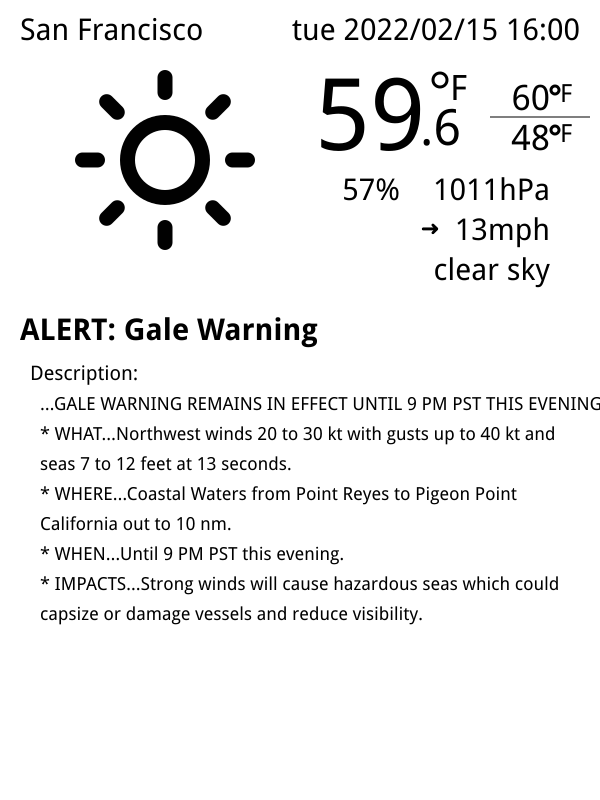
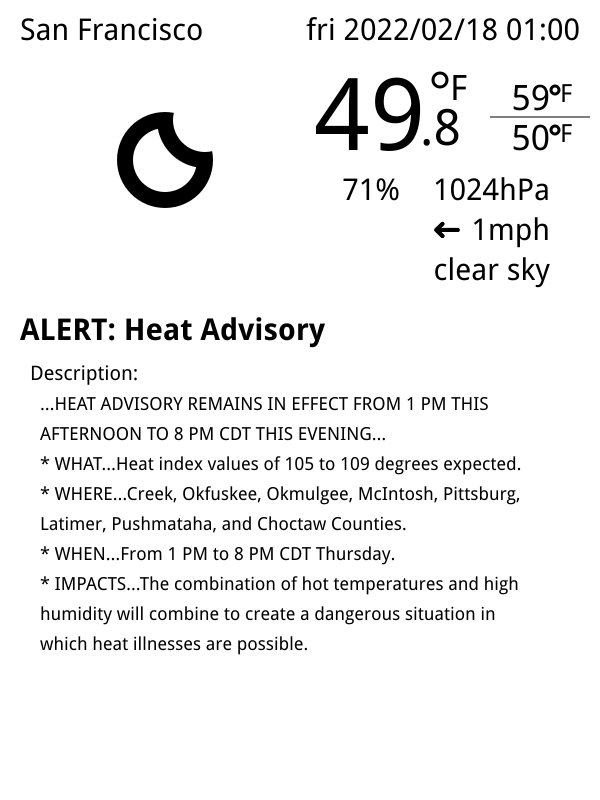
update

diff --git a/openwrt/opt/kindle-weather-station/createSVGv2.py b/openwrt/opt/kindle-weather-station/createSVGv2.py
@@ -123,20 +123,25 @@ def s_padding(x):
     elif x <= -10 : return 0
 
 
-def text_split(start, length, text):
-    a = text.split()
-    b1 = start
+def text_split(length, text, start_text="" , match=""):
+    text_list = text.split()
+    b1 = start_text
     s = list()
-    i = int(0)
     n = int(0)
-    for v in a:
+    for v in text_list:
         n += 1
         b2 = b1
         b1 += v + " "
-        if len(a) == n:
+        if len(text_list) == n:
             s += [b1 + "\n"]
+        elif re.match(r'{}'.format(match), v) and not match == '':
+            s += [b2 + "\n"]
+            b1 = v + " "
+        elif re.match(r'^\*$', v) and not match == '':
+            s += [b2 + "\n"]
+            b1 = v + " "
         elif len(b1) < length:
-            v1 = v + " "
+            continue
         elif len(b1) >= length:
             s += [b2 + "\n"]
             b1 = v + " "
@@ -186,46 +191,37 @@ def add_header(p, t_now, tz):
 def add_alerts(p, base_y, max_y):
     alerts = p.weather_alerts()
     s = str()
-    c = text_split(start="ALERT: ", length=35, text=alerts[0]['event'])
+    c = text_split(length=35, text=alerts[0]['event'], start_text="ALERT: ")
 
     for v in c:
         s1 = SVGtext2("start", "bold", "30px", "20", base_y, str(v))
         s += s1.code()
         base_y += 40
 
-    s2 = SVGtext("start", "20px", "25", base_y, "Description:")
+    s2 = SVGtext("start", "20px", "30", base_y, "Description:")
     s += s2.code()
     base_y += 30
 
-    c1 = alerts[0]['description'].split('\n')
-    _x = 30
-    #length = 50
-    length = 57
-    for v1 in c1:
-        flag = True
-        c2 = list()
-        t1_list = text_split(start="", length=length, text=v1)
-        t1_list = [re.sub(r' \n$', '', text) for text in t1_list]
-        t1 = ' '.join(str(text) for text in t1_list)
-        t1_list = text_split(start="", length=length, text=t1)
-        c2 += t1_list
-        #c2 += [t1]
-        c3 = list()
-        for v2 in c2:
-            if base_y > max_y -35:
-                v2 = v2[:-2]
-                v2 += "..."
-                s2 = SVGtext("start", "18px", _x, base_y, str(v2))
-                s += s2.code()
-                flag = False
-                break
-            else:
-                s2 = SVGtext("start", "18px", _x, base_y, str(v2))
-                s += s2.code()
-
-            base_y += 30
-        if flag == False:
+    v1 = alerts[0]['description']
+    v1 = re.sub(r'\n', ' ', v1, flags=re.MULTILINE)
+    base_x = 40
+    length = 60
+    #length = 57
+    flag = True
+    v1_list = text_split(length=length, text=v1, match='\*')
+    for v2 in v1_list:
+        if base_y > max_y -35:
+            v2 = v2[:-2]
+            v2 += "..."
+            s2 = SVGtext("start", "18px", base_x, base_y, str(v2))
+            s += s2.code()
+            flag = False
             break
+        else:
+            s2 = SVGtext("start", "18px", base_x, base_y, str(v2))
+            s += s2.code()
+
+        base_y += 30
 
     return s
 
@@ -255,7 +251,7 @@ def add_curt_weather_disc(p, base_x, base_y, disc_offset=0, wordwrap=0):
 
     # description
     if wordwrap != 0:
-        disc = text_split(start="", length=wordwrap, text=curt_weather[3])
+        disc = text_split(length=wordwrap, text=curt_weather[3])
     else:
         disc = [curt_weather[3]]
 
